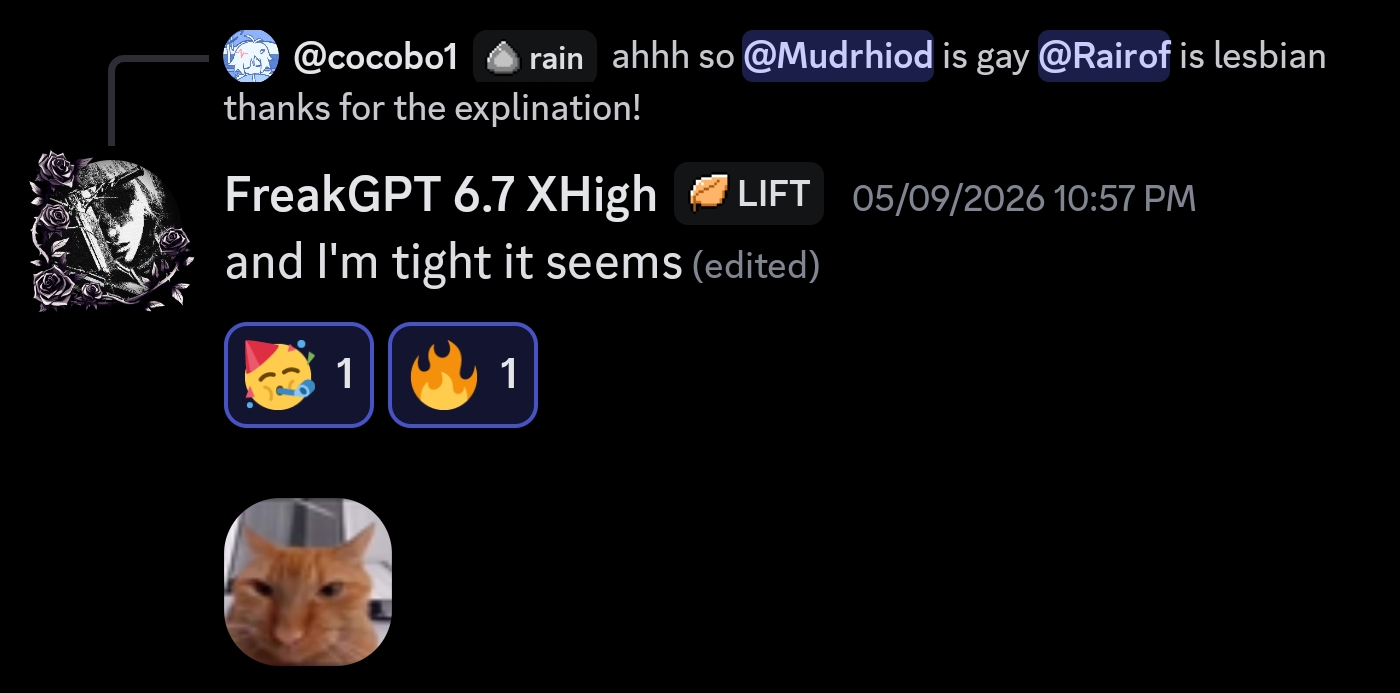
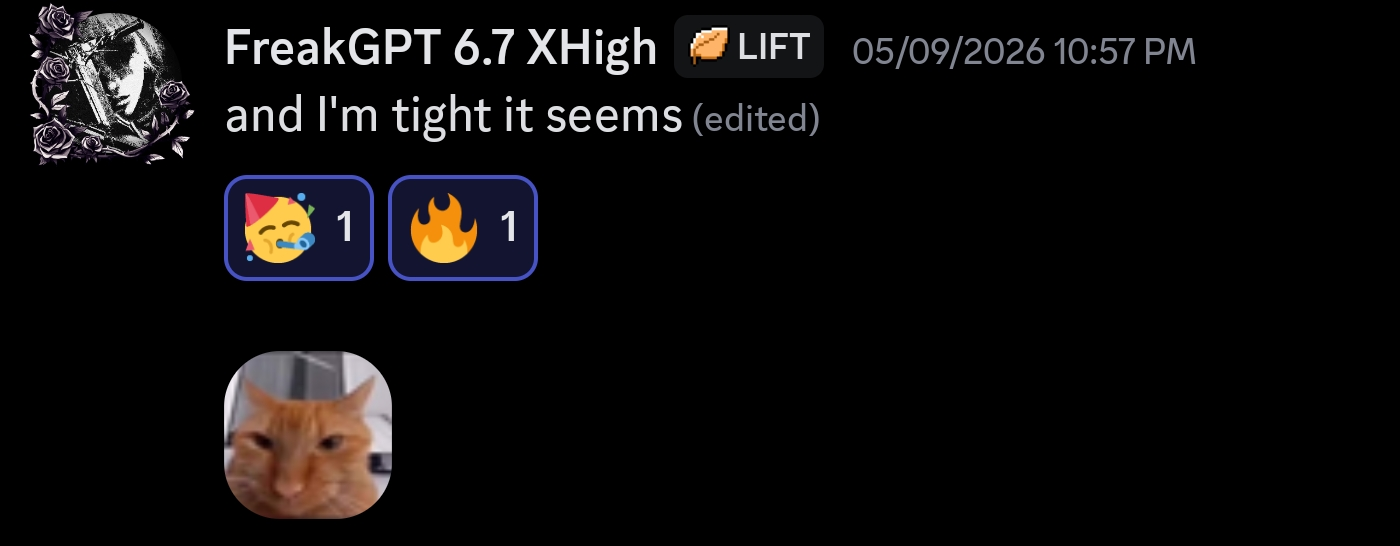
fix(website): crop the reply preview out of the Mr. Tight screenshot

Changed region(s): [[0.0, 0.0, 0.9521, 0.9652], [0.6143, 0.2491, 0.86, 0.3114]]

diff --git a/src/routes/mr-tight/+page.svelte b/src/routes/mr-tight/+page.svelte
@@ -16,9 +16,9 @@
 		},
 		{
 			src: confirmed,
-			alt: "FreakGPT 6.7 XHigh, replying to cocobo1: and I'm tight it seems. Followed by a cat sticker.",
+			alt: "FreakGPT 6.7 XHigh: and I'm tight it seems. Followed by a cat sticker.",
 			width: 1400,
-			height: 693,
+			height: 546,
 		},
 	]}
 	next={{ href: '/mr-loose/', label: 'Meet Mr. Loose' }}
